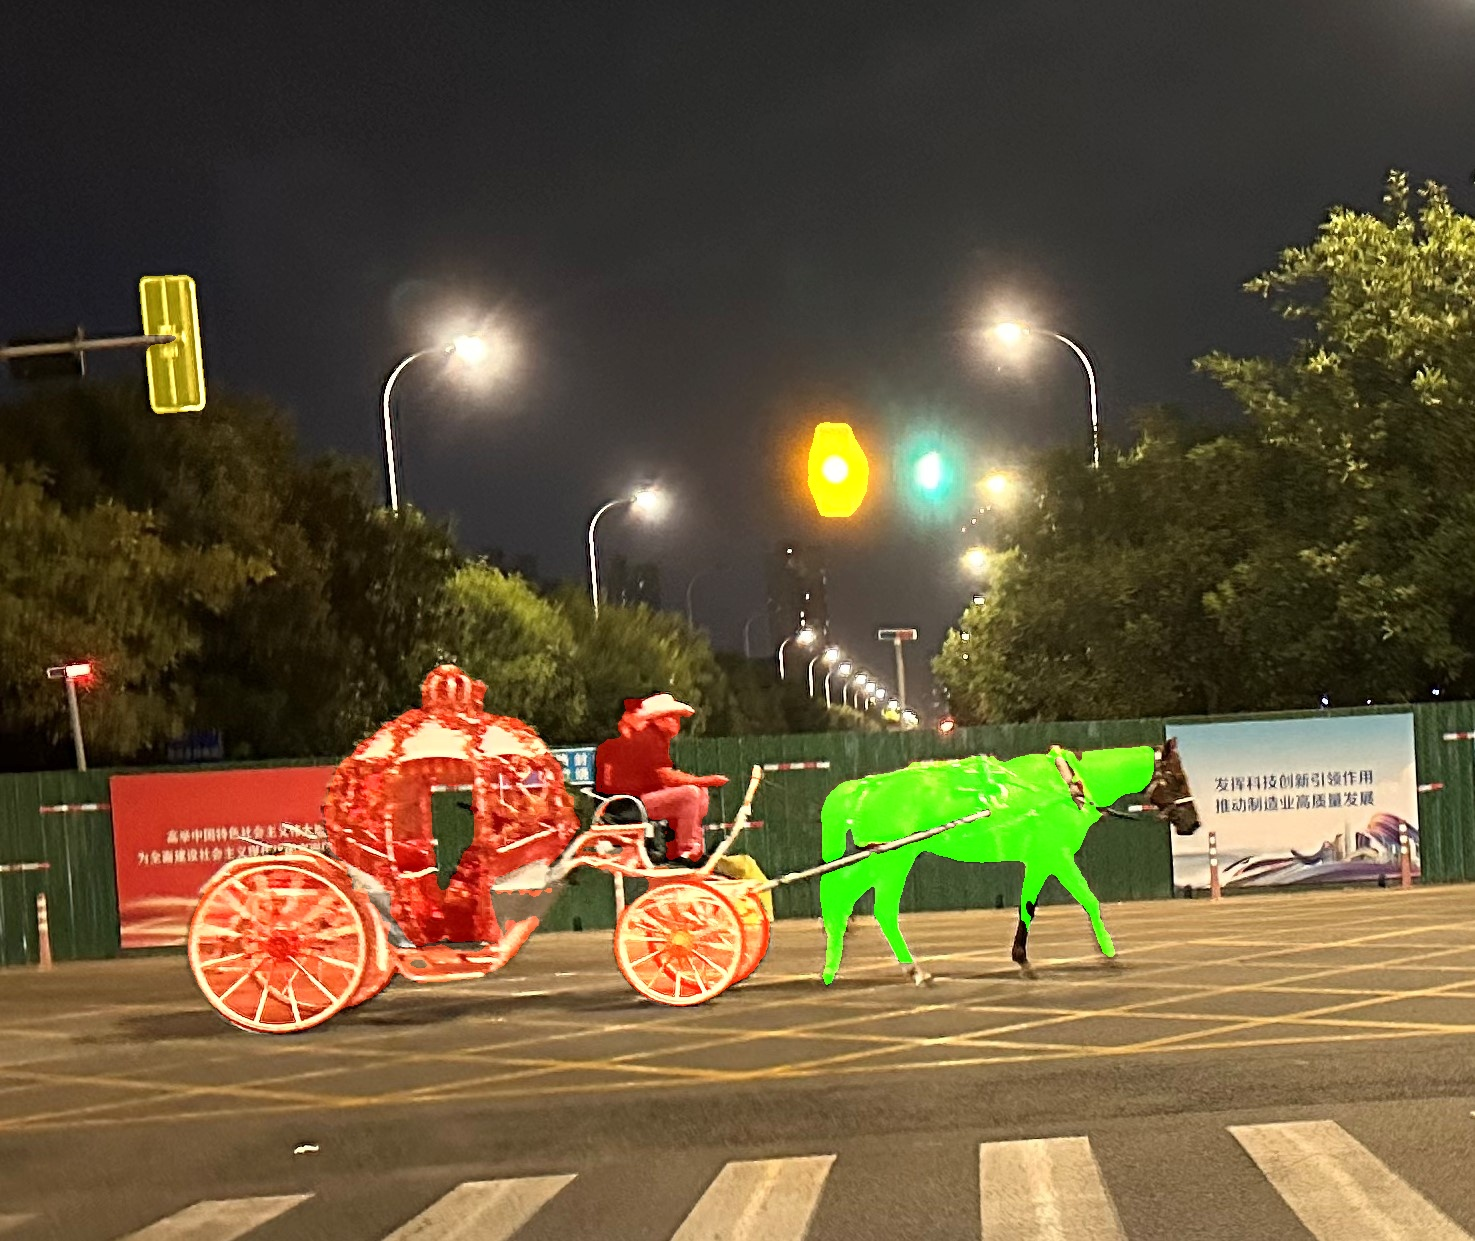
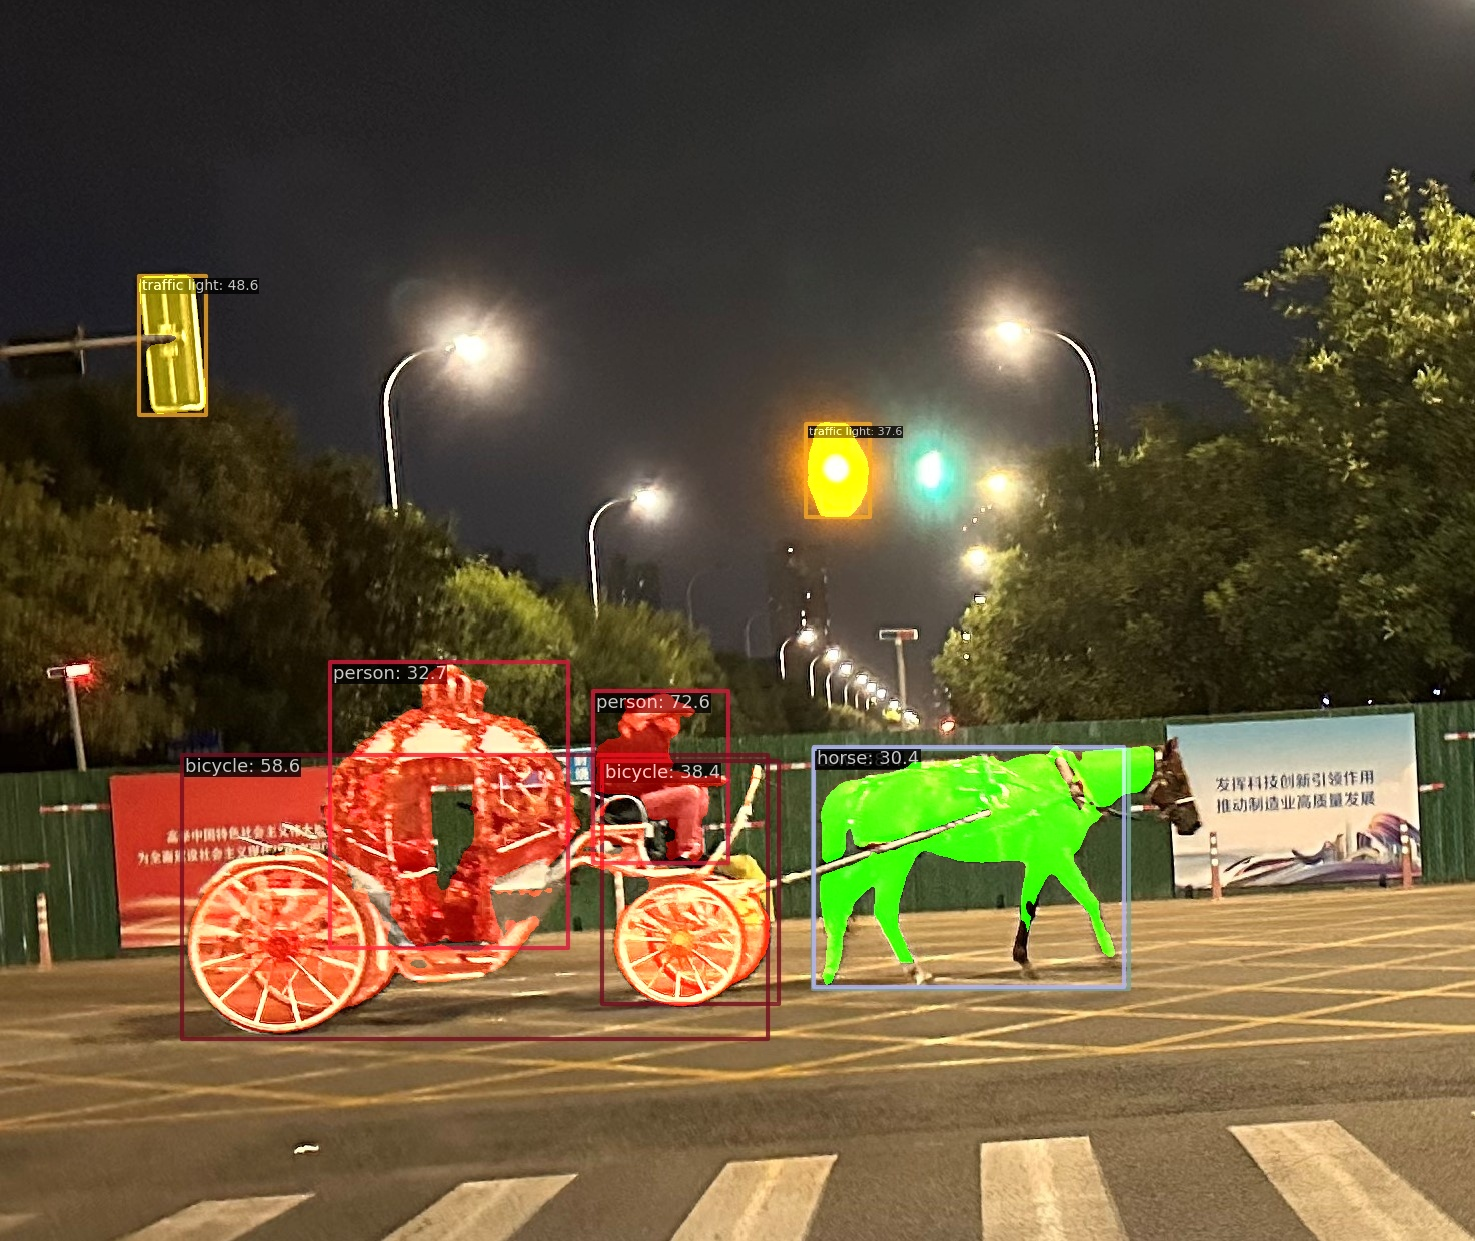
[Update] new sam output image

diff --git a/demo/sam_demo.py b/demo/sam_demo.py
@@ -59,7 +59,7 @@ def parse_args():
                         required=True)
     parser.add_argument('--sam_size',
                         help='The size of SAM model',
-                        default='vit-h')
+                        default='vit_h')
     args = parser.parse_args()
     return args
 
@@ -146,6 +146,15 @@ def main():
             filename = os.path.basename(file)
         out_file = None if args.show else os.path.join(args.out_dir, filename)
 
+        visualizer.add_datasample(filename,
+                                  img,
+                                  data_sample=result,
+                                  draw_gt=False,
+                                  show=args.show,
+                                  wait_time=0,
+                                  out_file=out_file,
+                                  pred_score_thr=args.score_thr)
+
         progress_bar.update()
 
         # Get candidate predict info with score threshold
@@ -156,7 +165,8 @@ def main():
         
         # sam
         image = cv2.imread(file, cv2.IMREAD_COLOR)
-        sam = models.segment_anything.sam_model_registry[args.sam_size](checkpoint=args.sam_model).to(device=torch.device('cuda:0'))
+        image_processed = cv2.imread(out_file, cv2.IMREAD_COLOR)
+        sam = models.segment_anything.sam_model_registry[args.sam_size](checkpoint=args.sam_model).to(device=torch.device(args.device))
         mask_predictor = models.segment_anything.SamPredictor(sam)
         transformed_boxes = mask_predictor.transform.apply_boxes_torch(bboxes, image.shape[:2])
         mask_predictor.set_image(image)
@@ -176,7 +186,7 @@ def main():
             mask = np.stack([mask] + [mask_map * 255] * 2, axis=-1).astype(np.uint8)
             mask = cv2.cvtColor(mask, cv2.COLOR_HSV2BGR)
             if result is None:
-                result = cv2.addWeighted(image, 1, mask, 0.5, 0)
+                result = cv2.addWeighted(image_processed, 1, mask, 0.5, 0)
             else:
                 result = cv2.addWeighted(result, 1, mask, 0.5, 0)
         
